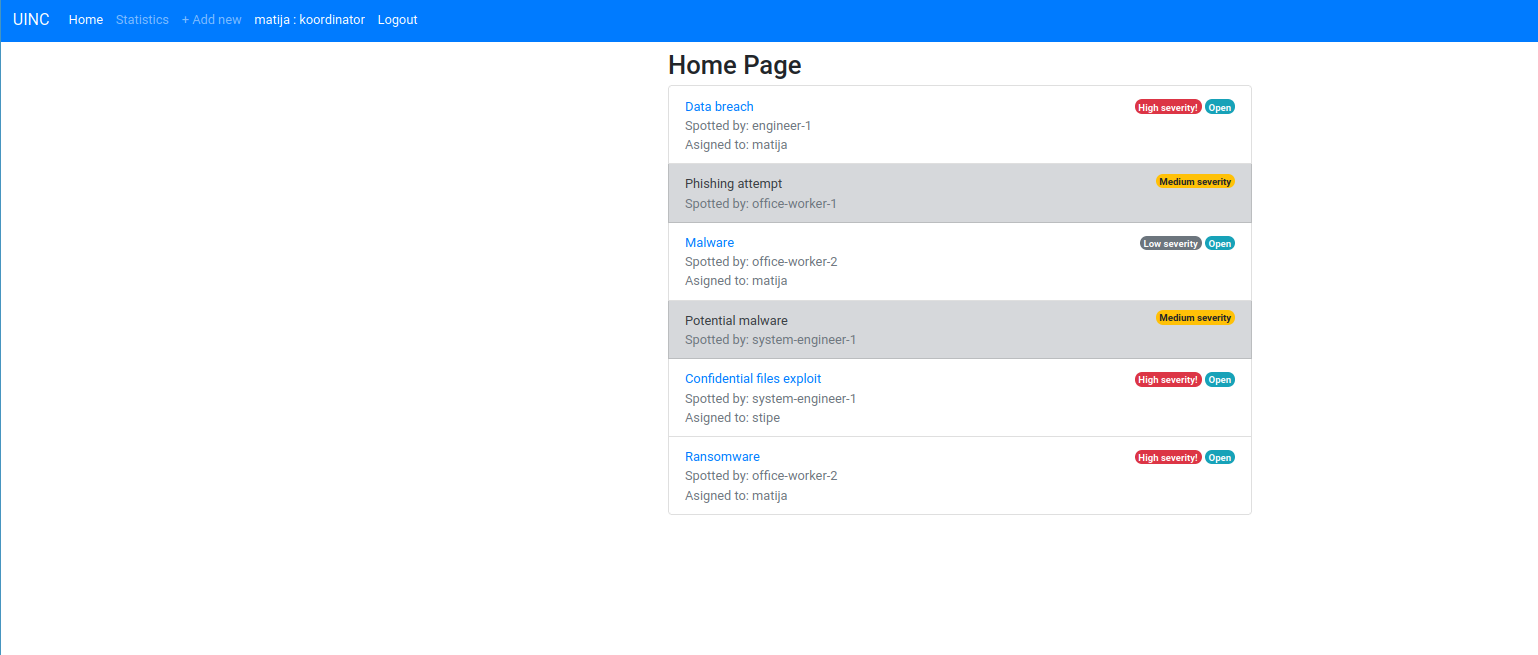
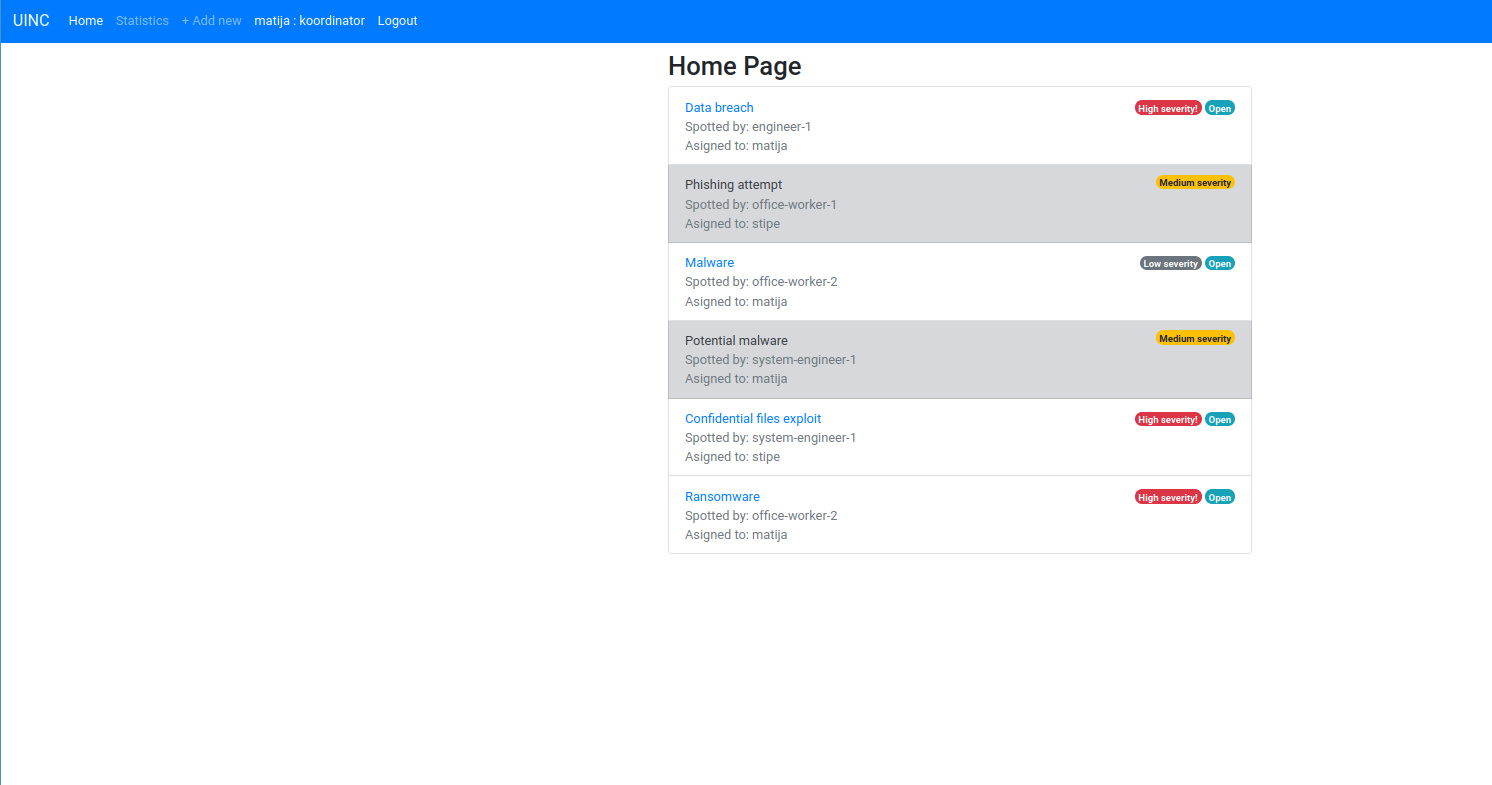
README fix, home_page fix

Changed region(s): [[0.0, 0.0, 1.0, 0.7634], [0.7399, 0.6718, 0.8016, 0.7328]]

diff --git a/rad/uinc/sustav/templates/sustav/incident_list.html b/rad/uinc/sustav/templates/sustav/incident_list.html
@@ -22,7 +22,7 @@
                         <a class="list-group-item list-group-item-secondary d-flex justify-content-between align-items-start " href="/sustav/{{ incident.pk }}">
                             <div>
                                 <div class="fw-bold">{{ incident }}</div>
-                                <div class="text-muted">Spotted by: {{ incident.spotted_by}}</div>
+                                <div class="text-muted">Spotted by: {{ incident.spotted_by}}<br /> Asigned to: {{ incident.user }}</div>
                             </div>
                             {% if incident.severity == 'L' %}
                                 <span class="badge badge-secondary rounded-pill">Low severity</span>
